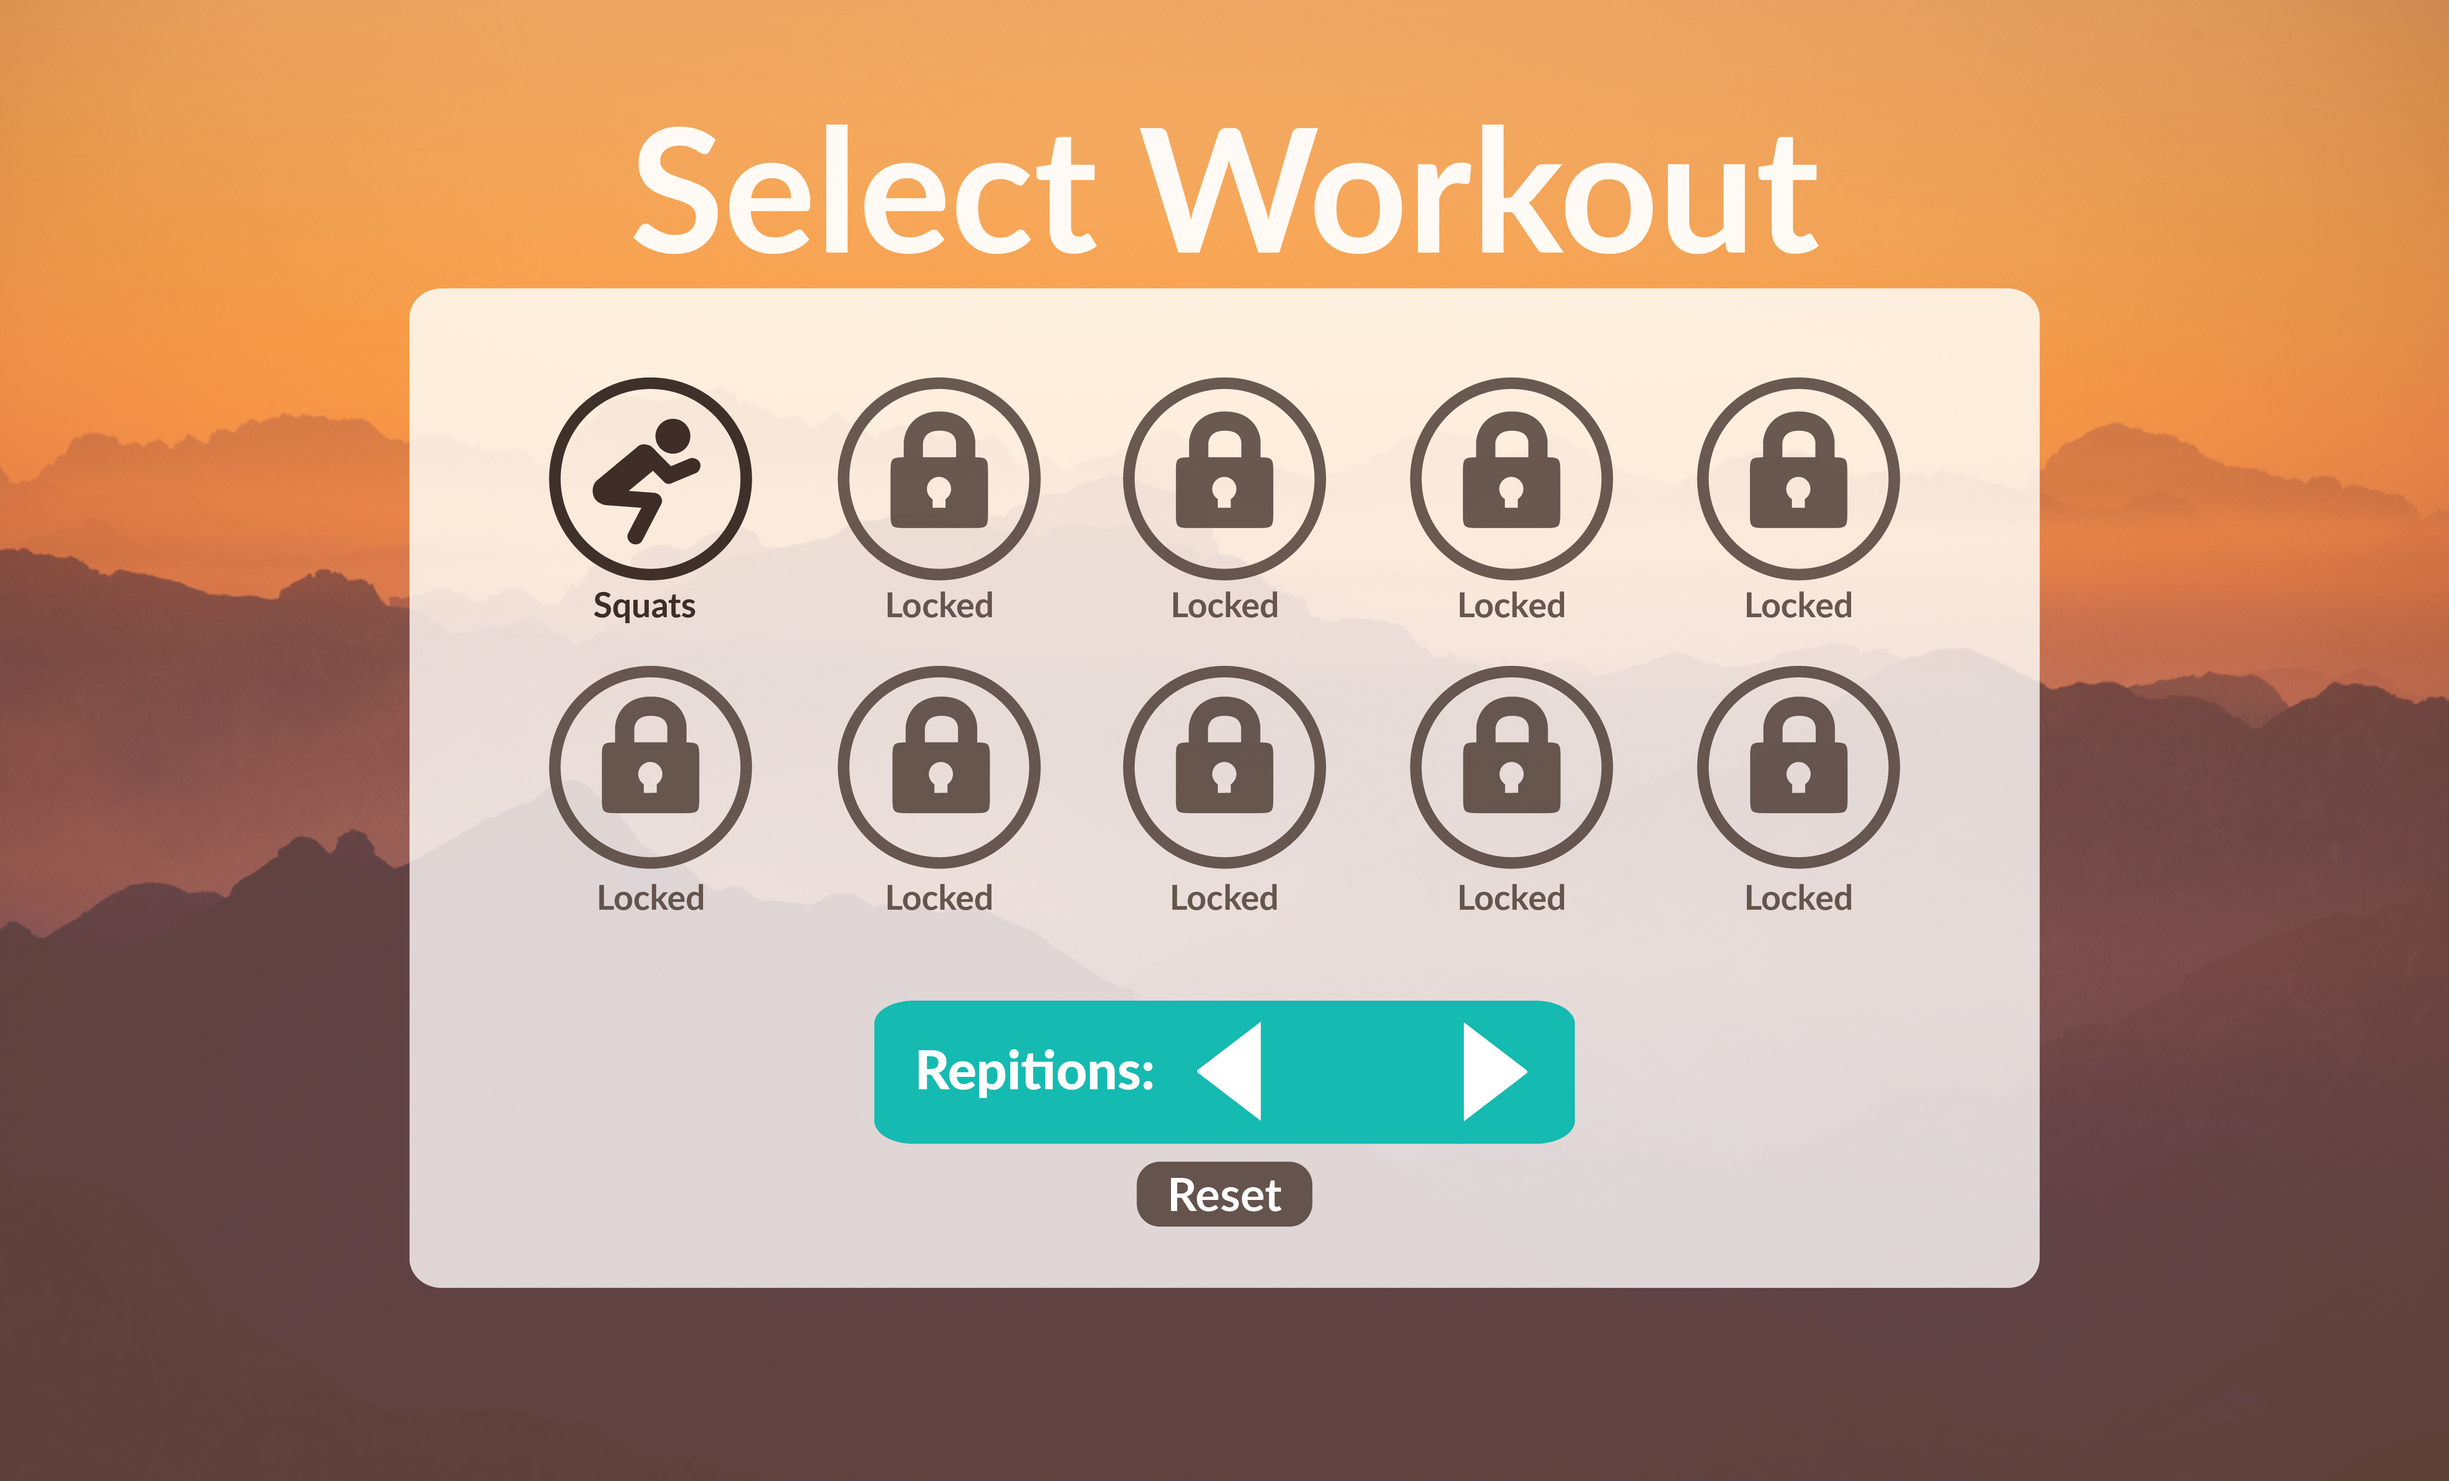
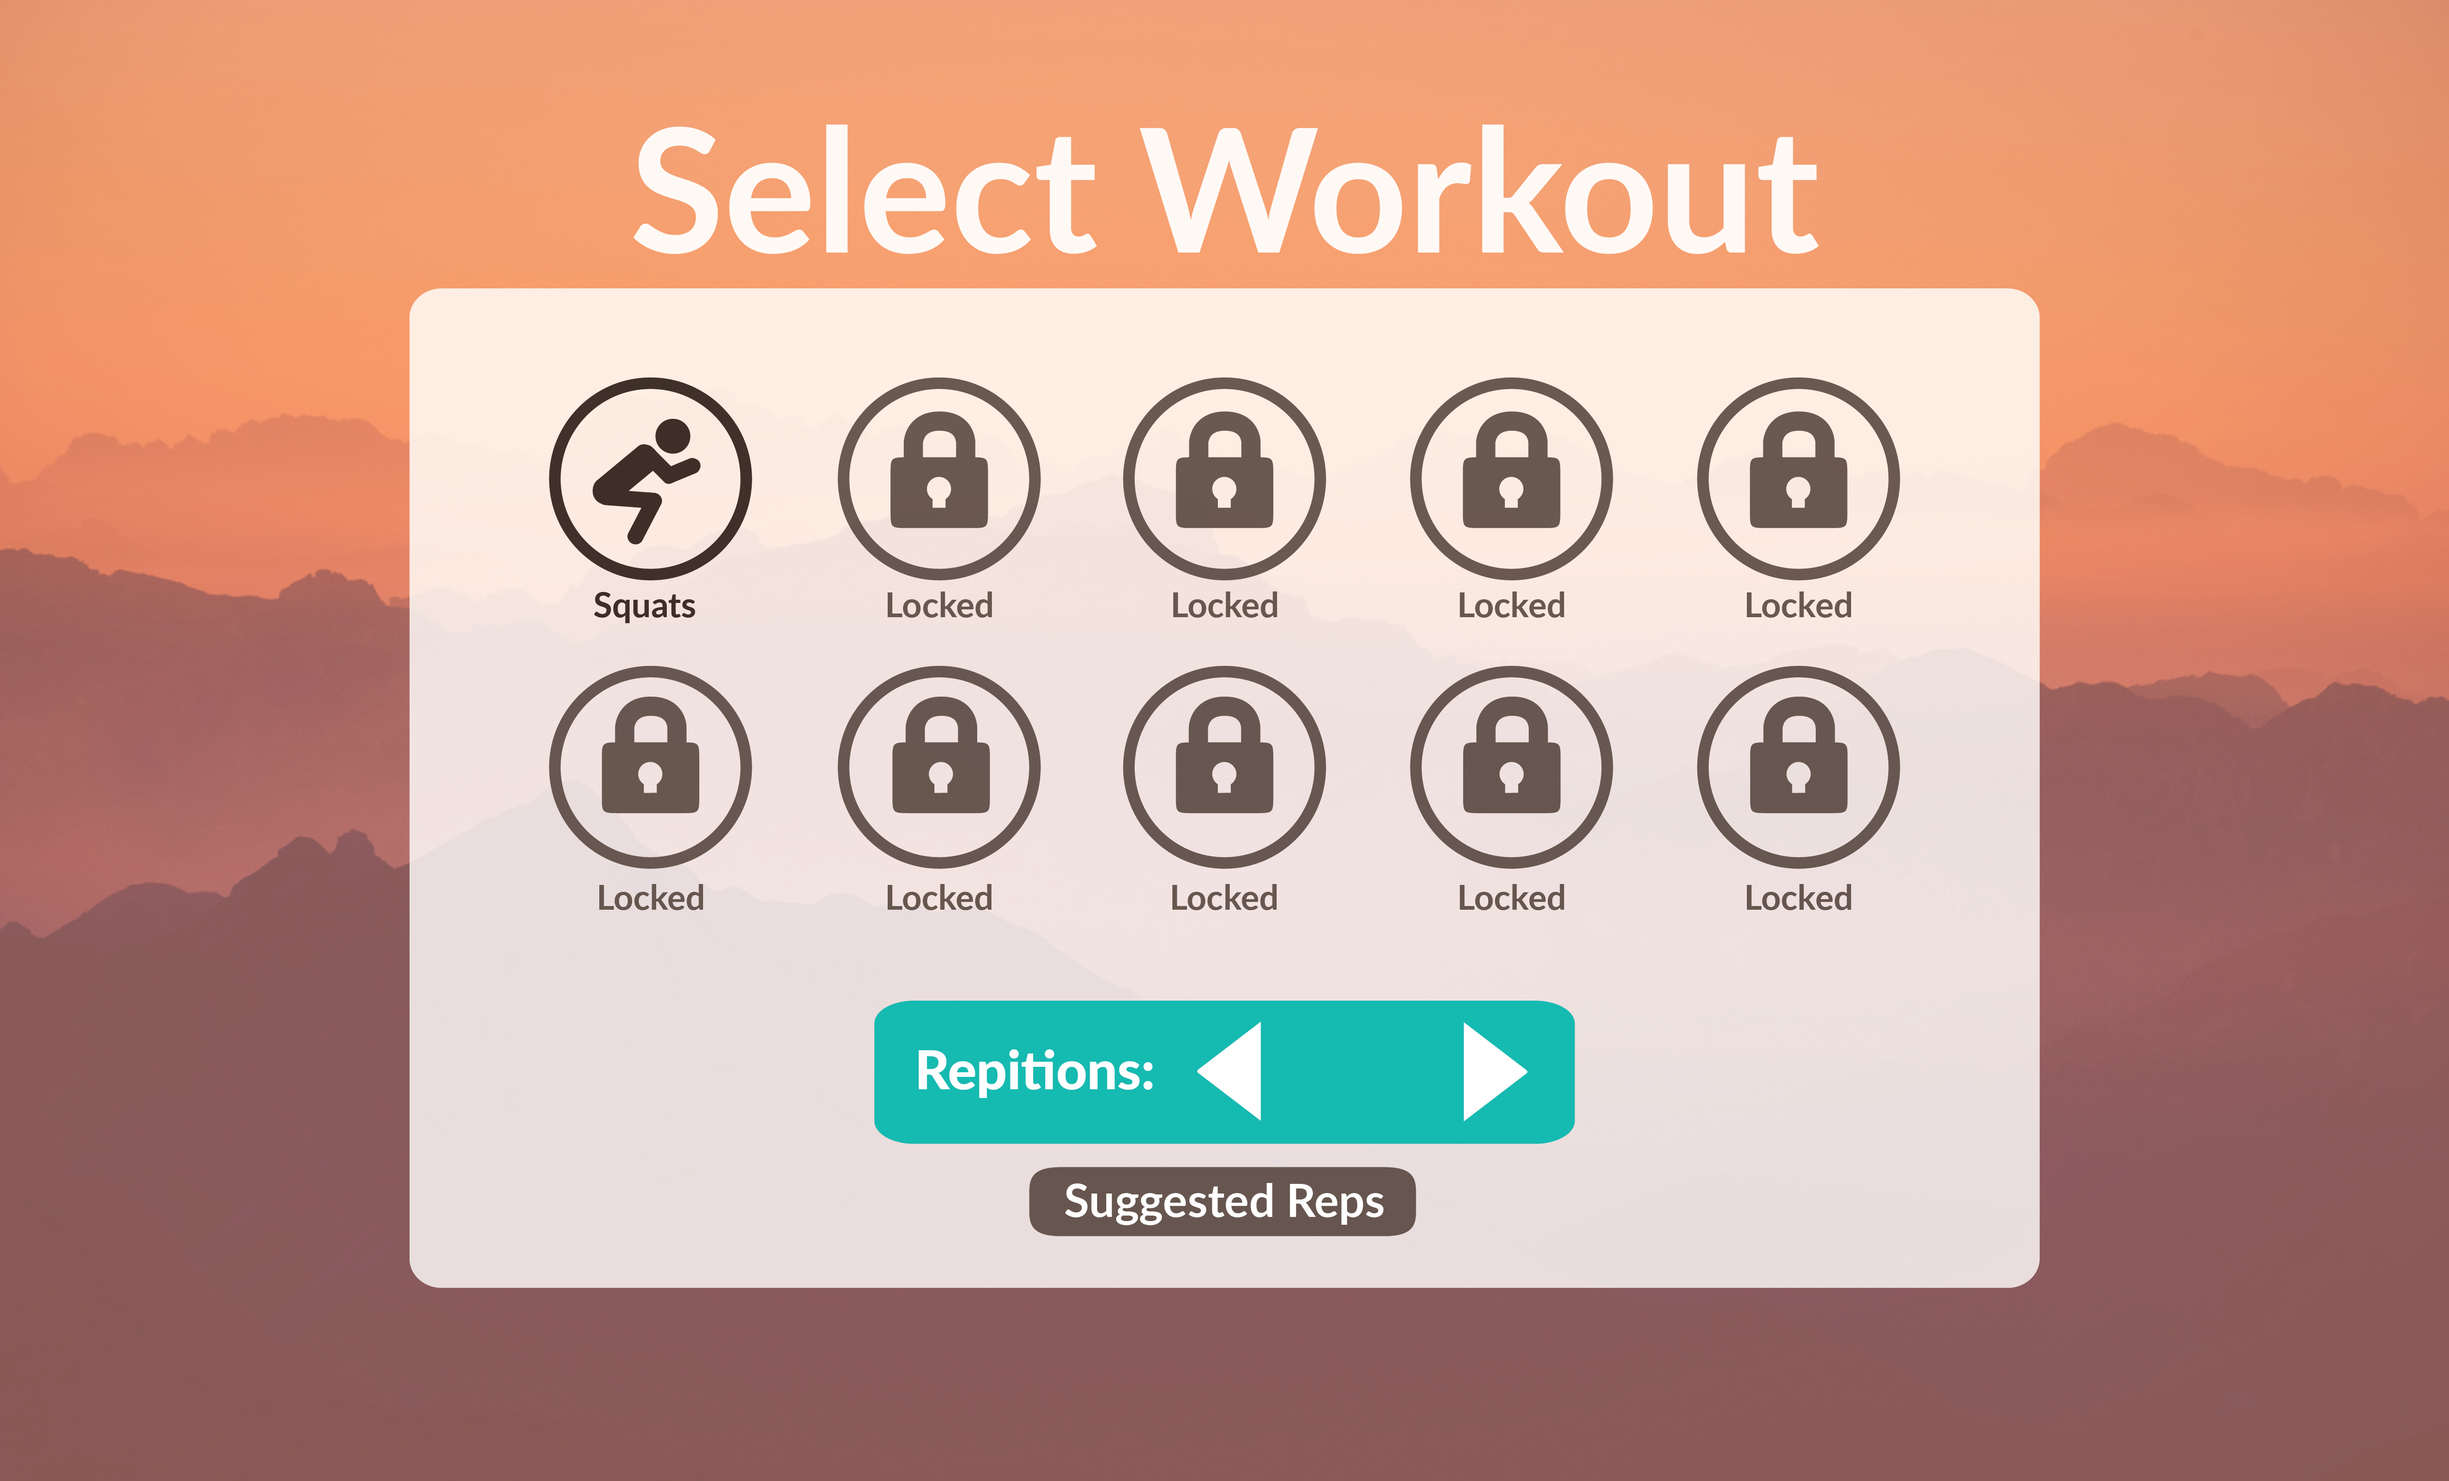
suggested reps

diff --git a/stage1/js/select-workout.js b/stage1/js/select-workout.js
@@ -6,7 +6,8 @@ const path = require('path');
 var selectionAvailable = true;
 var selectionSet = !selectionAvailable;
 var selection = 0;
-var numReps = 20;
+var highlightSuggested = false;
+var numReps = 8;
 var needsRender = true;
 var mainWindow;
 var canvasHeight;
@@ -45,7 +46,11 @@ function drawReps() {
         noFill();
         stroke(239, 103, 148);
         strokeWeight(4);
-        rect(450, 518, 379, 86);
+        if (!highlightSuggested) {
+            rect(450, 518, 379, 86);
+        } else {
+            rect(536, 610, 204, 36);
+        }
     }
 
     fill(255, 255, 255);
@@ -80,6 +85,18 @@ document.addEventListener('keydown', event => {
             needsRender = true;
         }
     }
+    if (event.key === 'w') {
+        if (selectionSet) {
+            highlightSuggested = false;
+            needsRender = true;
+        }
+    }
+    if (event.key === 's') {
+        if (selectionSet) {
+            highlightSuggested = true;
+            needsRender = true;
+        }
+    }
     if (event.key === 'd') {
         if (!selectionSet && selection === 0) {
             selection = 1;
@@ -94,15 +111,18 @@ document.addEventListener('keydown', event => {
             selectionSet = true;
             needsRender = true;
         } else {
+            if (highlightSuggested) {
+                numReps = 8;
+            }
             electron.remote.getGlobal('sharedObj').numReps = numReps;
-            var pathToOpen;
+            var pathToLoad;
             if (selection === 0) {
-                pathToOpen = 'solos-squats.html';
-            } else if (selection === 1) {
-                pathToOpen = 'solo-jj.html';
+                pathToLoad = 'solo-squats.html';
+            } else {
+                pathToLoad = 'solo-jj.html';
             }
             mainWindow.loadURL(url.format({
-                pathname: path.join(__dirname, '..', pathToOpen),
+                pathname: path.join(__dirname, '..', pathToLoad),
                 protocol: 'file:',
                 slashes: true
             }));

diff --git a/stage0/js/select-workout.js b/stage0/js/select-workout.js
@@ -6,7 +6,8 @@ const path = require('path');
 var selectionAvailable = false;
 var selectionSet = !selectionAvailable;
 var selection = 0;
-var numReps = 20;
+var highlightSuggested = false;
+var numReps = 8;
 var needsRender = true;
 var mainWindow;
 var canvasHeight;
@@ -45,7 +46,11 @@ function drawReps() {
         noFill();
         stroke(239, 103, 148);
         strokeWeight(4);
-        rect(450, 518, 379, 86);
+        if (!highlightSuggested) {
+            rect(450, 518, 379, 86);
+        } else {
+            rect(536, 610, 204, 36);
+        }
     }
 
     fill(255, 255, 255);
@@ -80,6 +85,18 @@ document.addEventListener('keydown', event => {
             needsRender = true;
         }
     }
+    if (event.key === 'w') {
+        if (selectionSet) {
+            highlightSuggested = false;
+            needsRender = true;
+        }
+    }
+    if (event.key === 's') {
+        if (selectionSet) {
+            highlightSuggested = true;
+            needsRender = true;
+        }
+    }
     if (event.key === 'd') {
         if (!selectionSet && selection === 0) {
             selection = 1;
@@ -94,6 +111,9 @@ document.addEventListener('keydown', event => {
             selectionSet = true;
             needsRender = true;
         } else {
+            if (highlightSuggested) {
+                numReps = 8;
+            }
             electron.remote.getGlobal('sharedObj').numReps = numReps;
             mainWindow.loadURL(url.format({
                 pathname: path.join(__dirname, '../solo-squats.html'),
